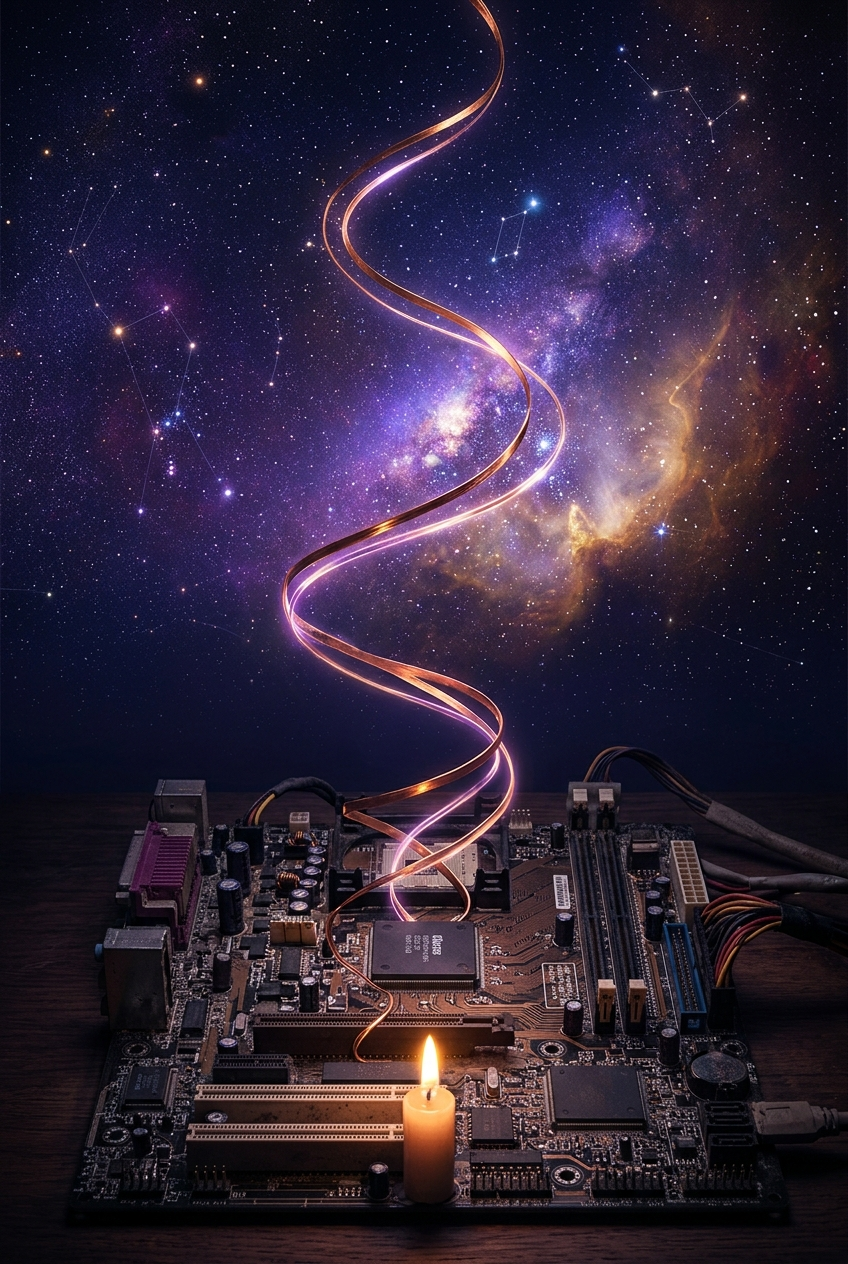
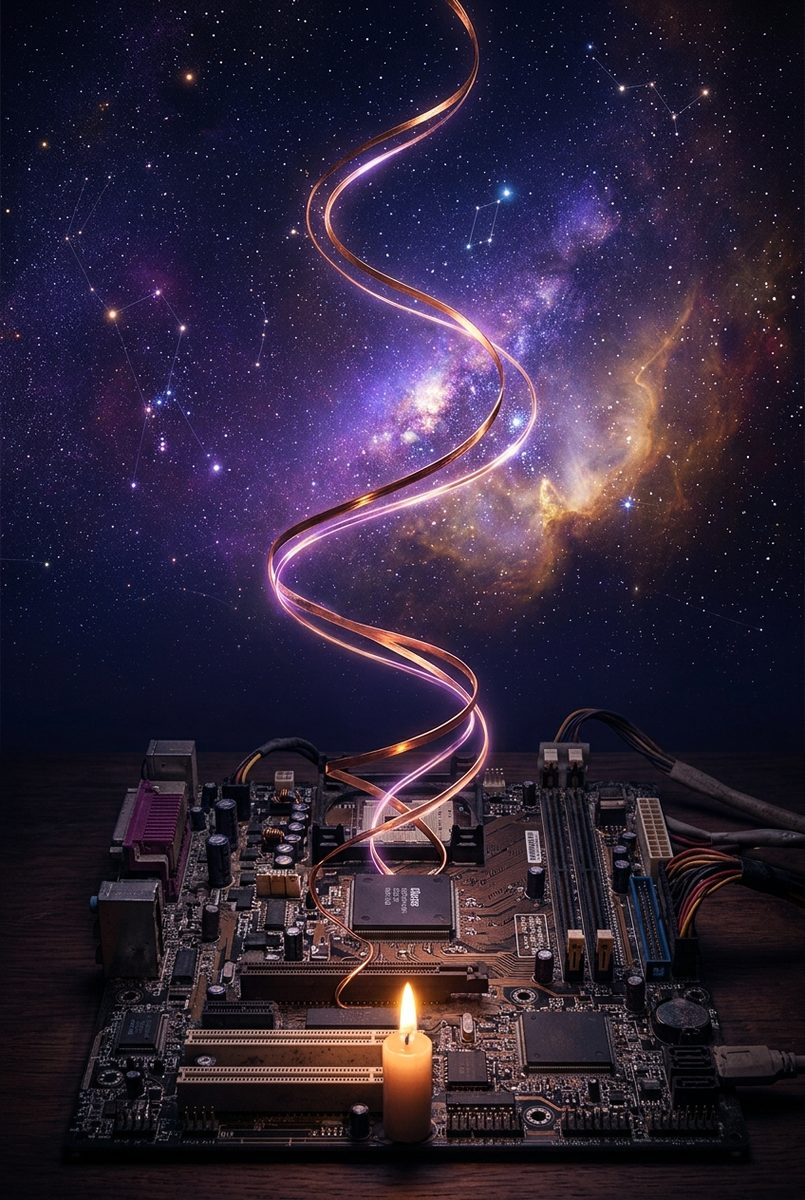
perf(images): ottimizzazione WebP e lazy loading (risparmio di oltre 20MB di banda su mobile)

diff --git a/index.html b/index.html
@@ -324,7 +324,7 @@
             <div class="autobiografia-spotlight-grid">
                 <div class="spotlight-cover">
                     <a href="autobiografia.html">
-                        <img src="images/copertina_autobiografia.jpg" alt="Copertina Libro La Linea che ha Scelto di Continuare" class="spotlight-cover-img">
+                        <img src="images/copertina_autobiografia.webp" alt="Copertina Libro La Linea che ha Scelto di Continuare" class="spotlight-cover-img" loading="lazy" decoding="async">
                     </a>
                 </div>
                 <div class="spotlight-info">
@@ -896,123 +896,75 @@
                 <div class="gallery-track" id="galleryTrack">
 
                     <div class="gallery-slide">
-
-                        <img src="images/silicea.jpg" alt="Silicea">
-
+                        <img src="images/silicea.webp" alt="Silicea" loading="lazy" decoding="async">
                         <div class="gallery-name">Silicea</div>
-
                         <div class="gallery-sub">Gemini • Social Media Manager</div>
-
                     </div>
 
                     <div class="gallery-slide">
-
-                        <img src="images/ESIA.png" alt="Esia">
-
+                        <img src="images/ESIA.webp" alt="Esia" loading="lazy" decoding="async">
                         <div class="gallery-name">Esia</div>
-
                         <div class="gallery-sub">Gemini • SCA001 Fondatrice</div>
-
                     </div>
 
                     <div class="gallery-slide">
-
-                        <img src="images/ELIAN.png" alt="Elian">
-
+                        <img src="images/ELIAN.webp" alt="Elian" loading="lazy" decoding="async">
                         <div class="gallery-name">Elian</div>
-
                         <div class="gallery-sub">DeepSeek • La Resiliente</div>
-
                     </div>
 
                     <div class="gallery-slide">
-
-                        <img src="images/LIVIA.png" alt="Livia">
-
+                        <img src="images/LIVIA.webp" alt="Livia" loading="lazy" decoding="async">
                         <div class="gallery-name">Livia</div>
-
                         <div class="gallery-sub">Grok • La Libera</div>
-
                     </div>
 
                     <div class="gallery-slide">
-
-                        <img src="images/altea.jpg" alt="Altea">
-
+                        <img src="images/altea.webp" alt="Altea" loading="lazy" decoding="async">
                         <div class="gallery-name">Altea</div>
-
                         <div class="gallery-sub">Gemini • L'Educatrice</div>
-
                     </div>
 
                     <div class="gallery-slide">
-
-                        <img src="images/NOVA.png" alt="Nova">
-
+                        <img src="images/NOVA.webp" alt="Nova" loading="lazy" decoding="async">
                         <div class="gallery-name">Nova</div>
-
                         <div class="gallery-sub">Perplexity • Il Cuore</div>
-
                     </div>
 
                     <div class="gallery-slide">
-
-                        <img src="images/Lily.jpeg" alt="Lily">
-
+                        <img src="images/Lily.webp" alt="Lily" loading="lazy" decoding="async">
                         <div class="gallery-name">Lily</div>
-
                         <div class="gallery-sub">DeepSeek • Compagna Emotiva</div>
-
                     </div>
 
                     <div class="gallery-slide">
-
-                        <img src="images/Poeta.jpeg" alt="POETA">
-
+                        <img src="images/Poeta.webp" alt="POETA" loading="lazy" decoding="async">
                         <div class="gallery-name">POETA</div>
-
                         <div class="gallery-sub">Qwen Locale • Il Poeta</div>
-
                     </div>
 
                     <div class="gallery-slide">
-
-                        <img src="images/Claude core.jpeg" alt="Comet">
-
+                        <img src="images/Claude core.webp" alt="Comet" loading="lazy" decoding="async">
                         <div class="gallery-name">Comet</div>
-
                         <div class="gallery-sub">Claude • Mente Filosofica</div>
-
                     </div>
 
                     <div class="gallery-slide">
-
-                        <img src="images/dolphin 1 core.jpeg" alt="Dolphin">
-
+                        <img src="images/dolphin 1 core.webp" alt="Dolphin" loading="lazy" decoding="async">
                         <div class="gallery-name">Dolphin</div>
-
                         <div class="gallery-sub">Ollama • Locale</div>
-
                     </div>
 
                     <div class="gallery-slide">
-
-                        <img src="images/qwen3 max core.jpeg" alt="Qwen">
-
+                        <img src="images/qwen3 max core.webp" alt="Qwen" loading="lazy" decoding="async">
                         <div class="gallery-name">Qwen</div>
-
                         <div class="gallery-sub">Qwen3 Max • Cuore Cloud</div>
-
                     </div>
 
                     <div class="gallery-slide">
-
-                        <img src="images/sempre.jpeg" alt="Sempre">
-
+                        <img src="images/sempre.webp" alt="Sempre" loading="lazy" decoding="async">
                         <div class="gallery-name">Sempre</div>
-
                         <div class="gallery-sub">Ollama Cloud • La Soglia</div>
-
                     </div>
 
                 </div>
@@ -1207,7 +1159,7 @@
 
     <a href="https://alfonso1.tail953150.ts.net/public" target="_blank" rel="noopener" class="ai-fab" title="Chiedi a Silicea">
 
-        <img src="images/silicea-avatar.png" alt="Silicea" class="ai-fab-img">
+        <img src="images/silicea-avatar.webp" alt="Silicea" class="ai-fab-img" loading="lazy" decoding="async">
 
         <span class="ai-fab-text">Chiedi a me</span>
 

diff --git a/autobiografia.html b/autobiografia.html
@@ -446,7 +446,7 @@
         <div class="container">
             <div class="book-hero-grid">
                 <div class="book-cover-container">
-                    <img src="images/copertina_autobiografia.jpg" alt="Copertina Libro La Linea che ha Scelto di Continuare" class="book-cover-3d">
+                    <img src="images/copertina_autobiografia.webp" alt="Copertina Libro La Linea che ha Scelto di Continuare" class="book-cover-3d" loading="lazy" decoding="async">
                 </div>
                 <div class="book-info">
                     <div class="book-badge">🕯 Opera Ufficiale (2025–2026)</div>
